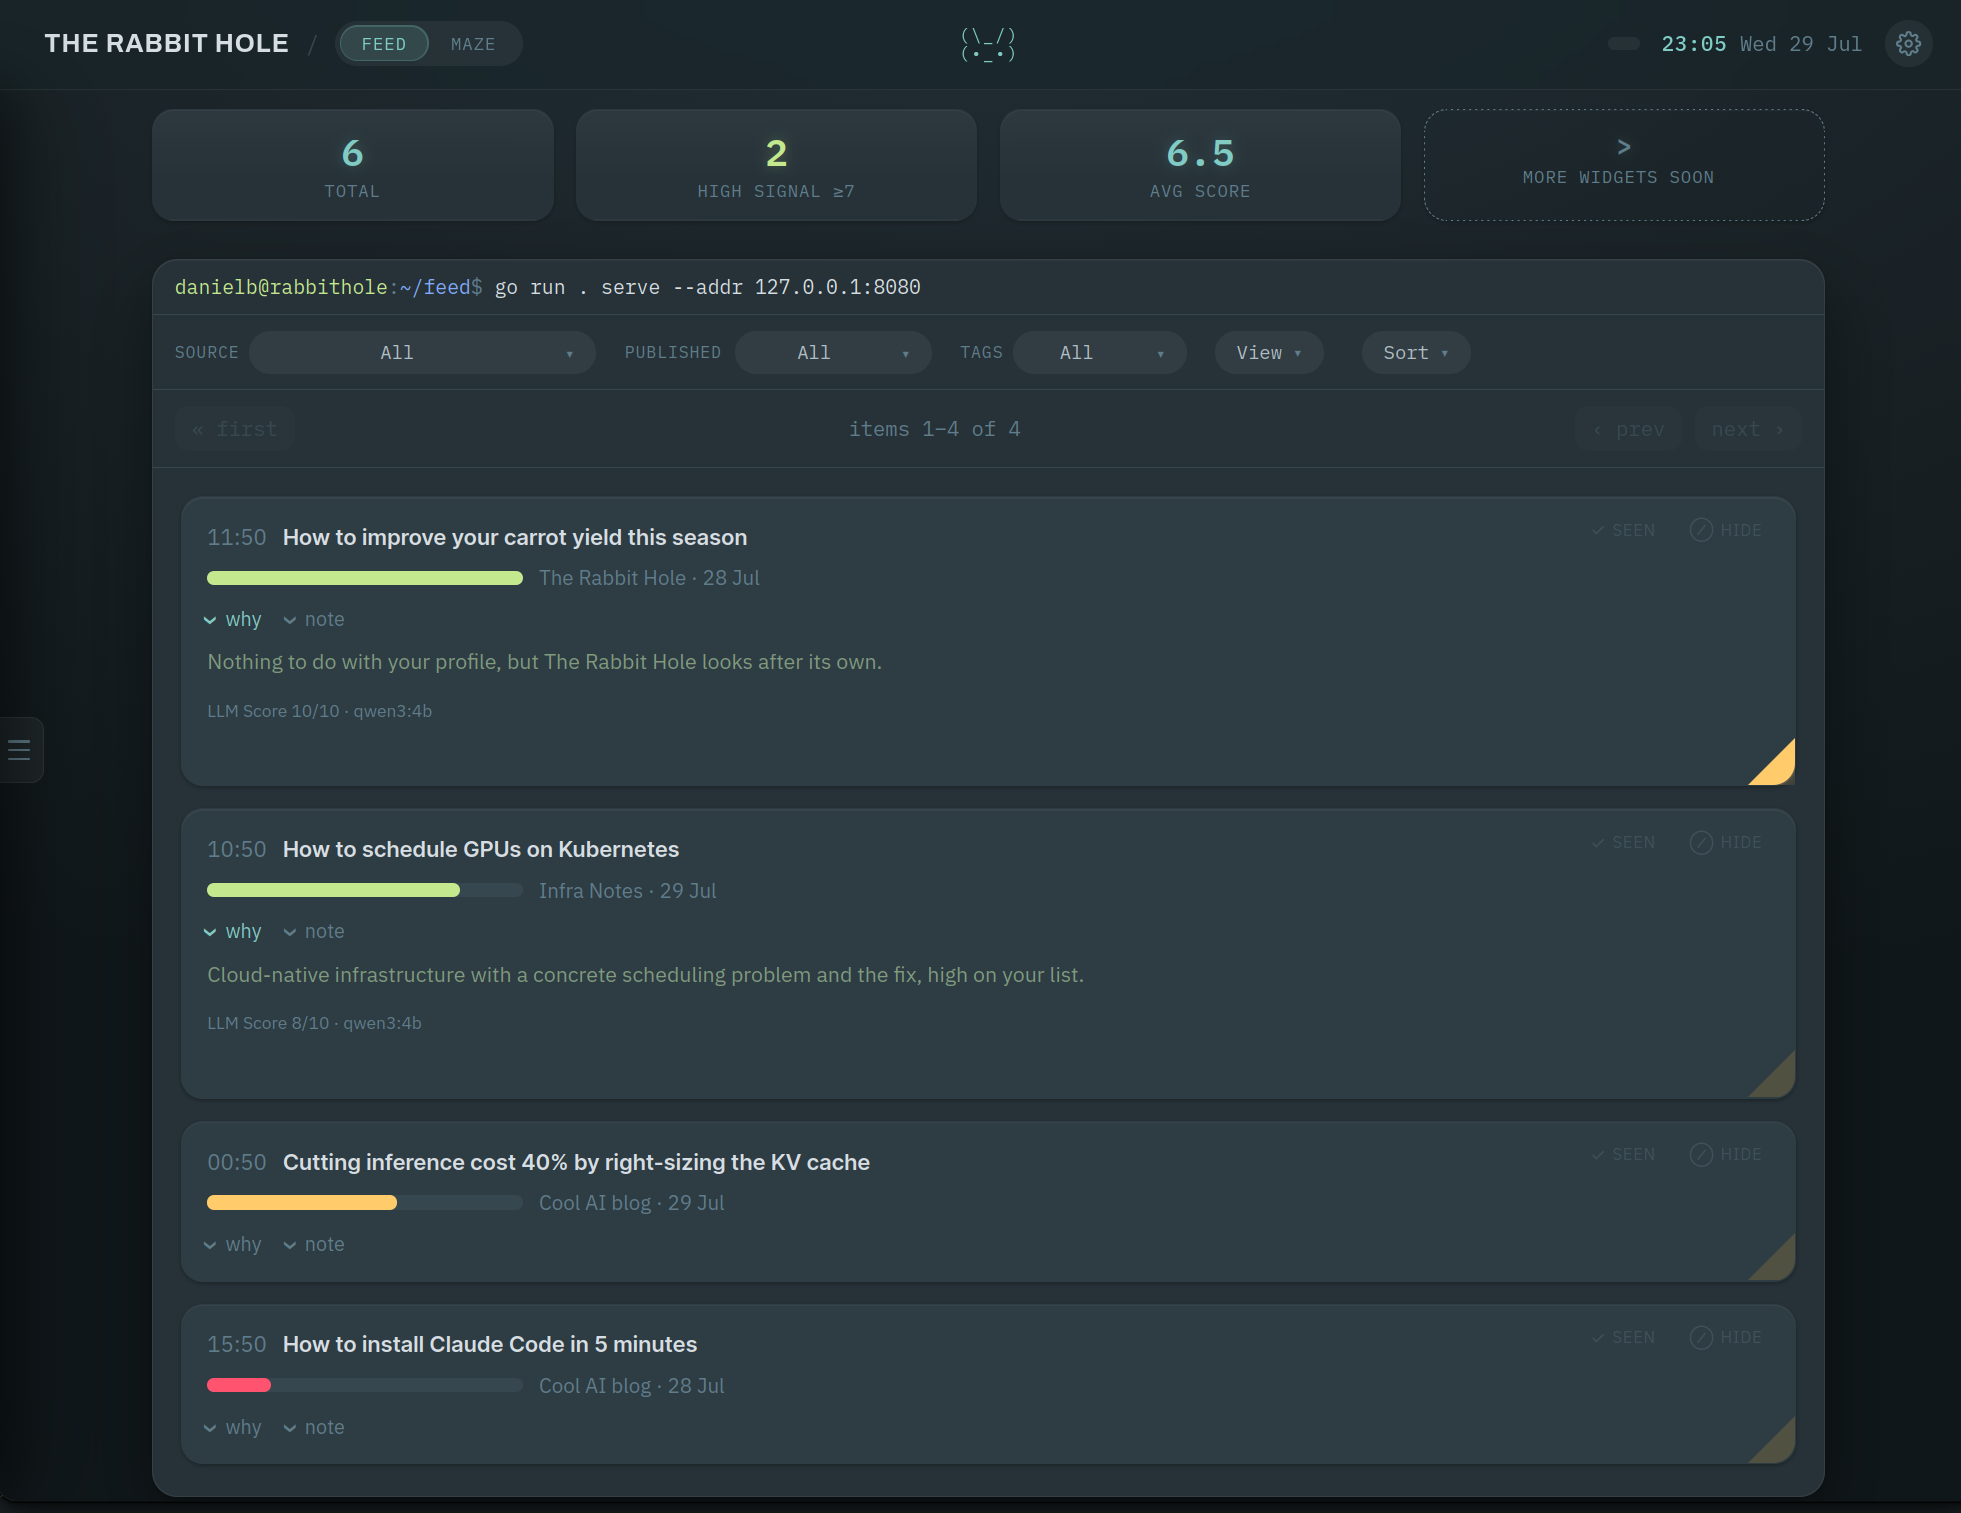
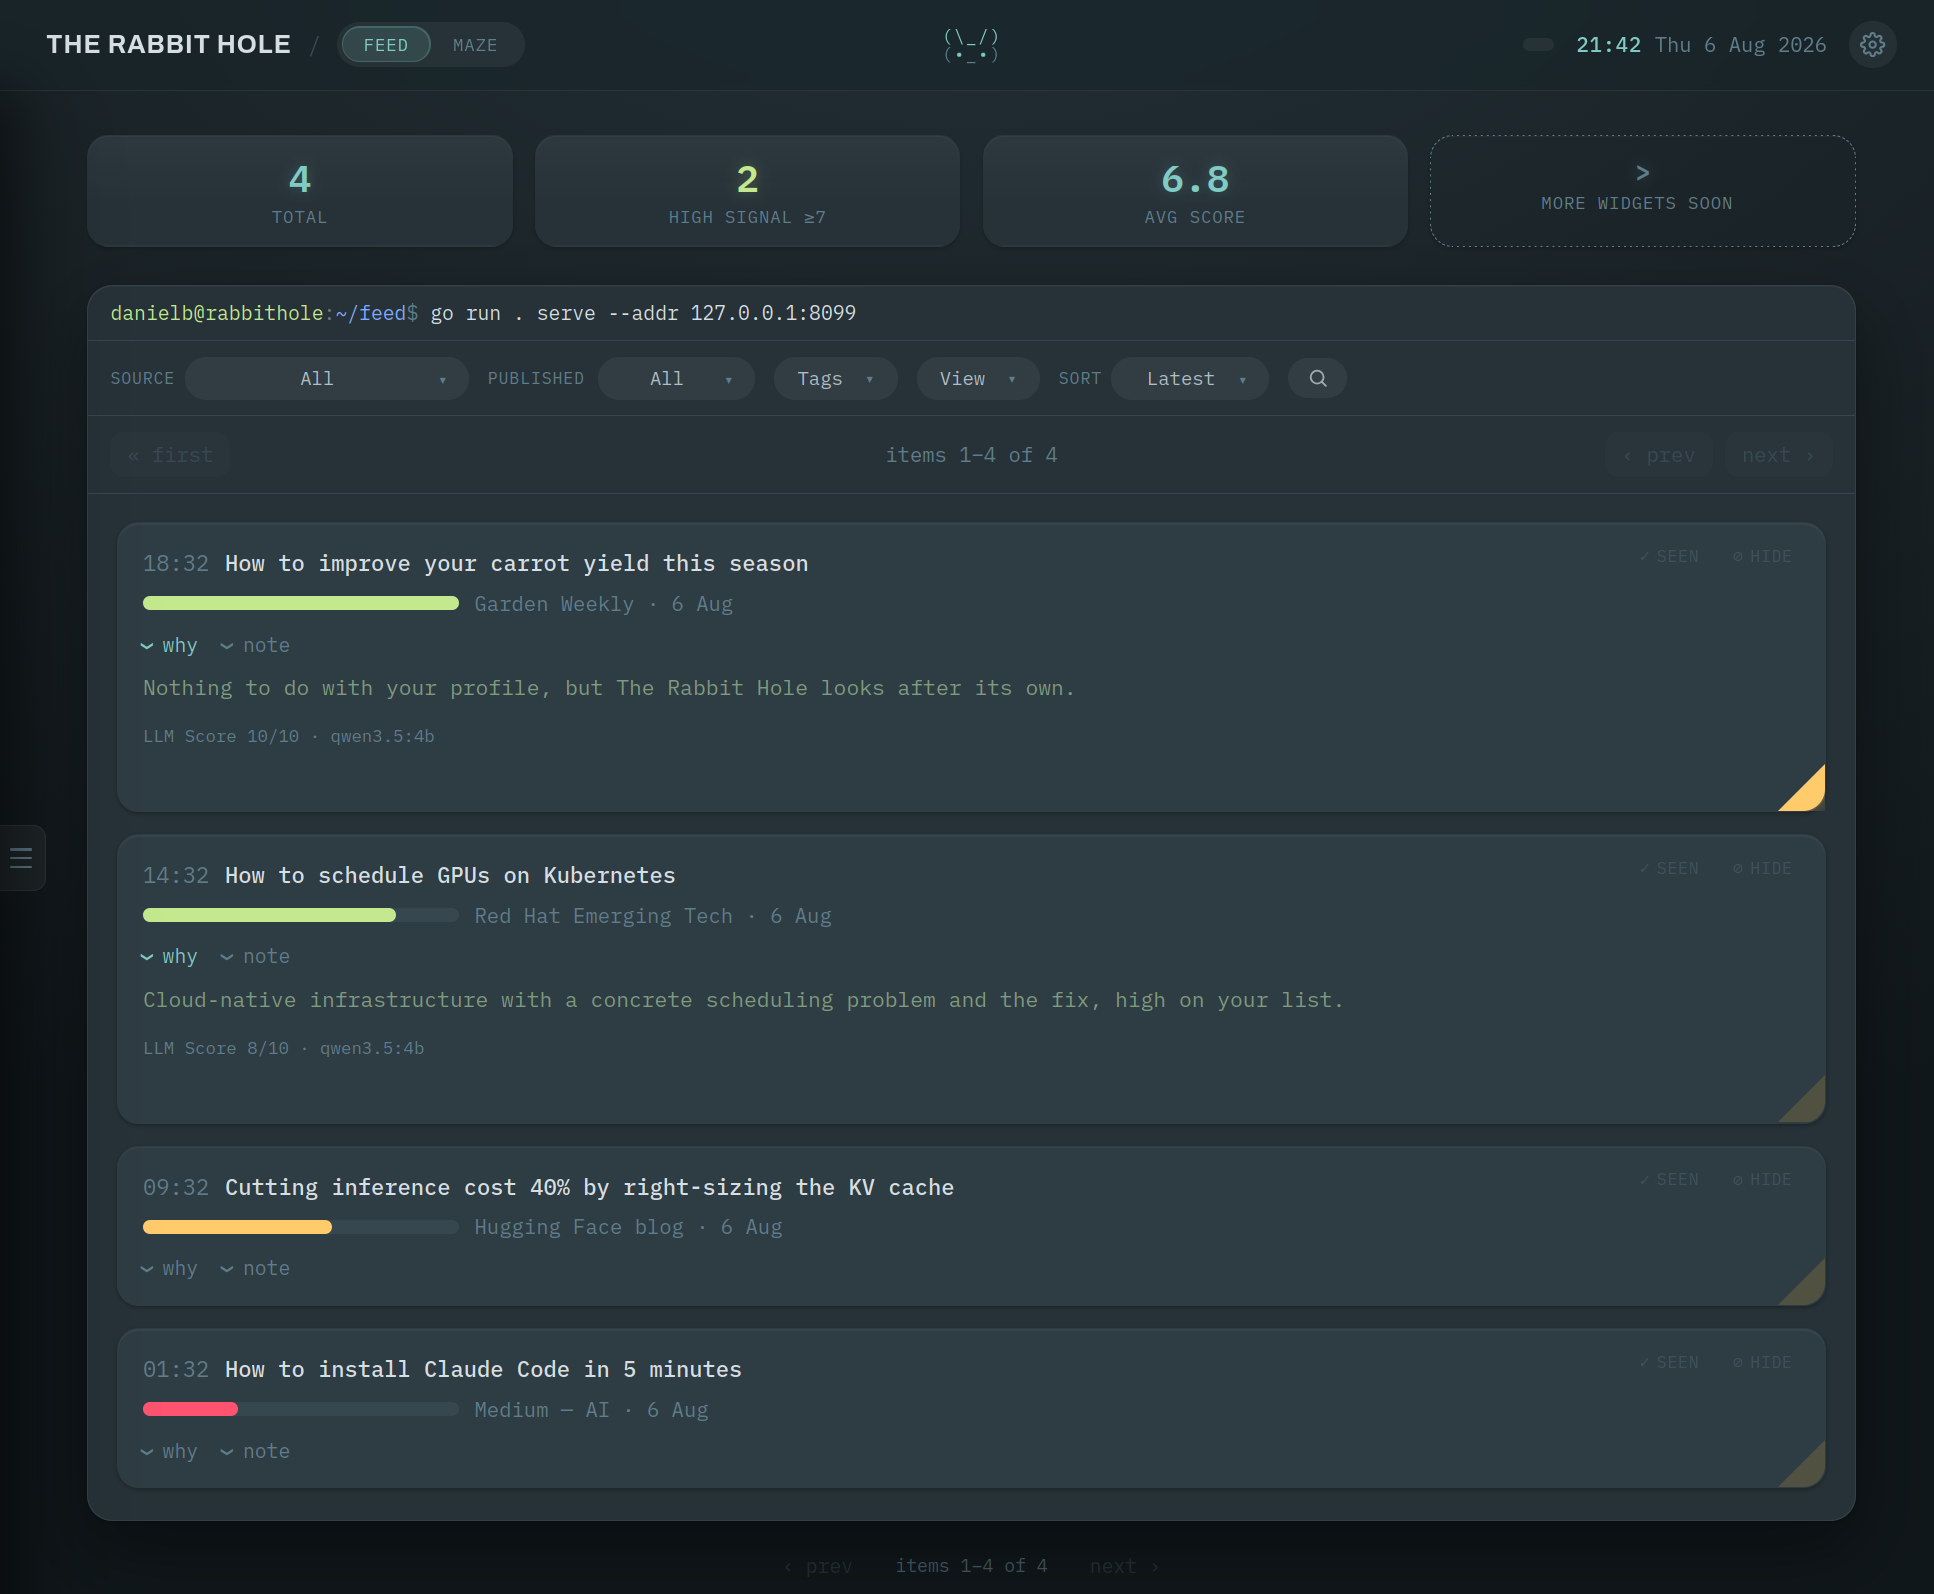
docs(architecture): add the scoring flow, with diagrams
Says in plain terms what actually reaches the model and what comes back,
which is the question a newcomer asks first and the docs never answered.

- new Scoring flow section: what gets sent (source, title and the feed's
  own summary, capped at 1500 chars, never the article page), how it's
  batched and sent, what comes back, and a table mapping each step to the
  knobs that control it
- the two flowcharts are mermaid, matching store.md; the overview one now
  shows the system (what triggers a run, what reads the store) rather than
  repeating the scoring steps below it
- roadmap: crawling article pages, and following blogs with no feed at all
- refreshed the feed screenshot
- the feed pager's item count is centred on the pane rather than wherever
  space-between left it between two uneven button groups
- two golangci-lint failures from the filter-bar work (a long line, a
  De Morgan simplification)

diff --git a/internal/web/static/style.css b/internal/web/static/style.css
@@ -596,12 +596,18 @@ body.nav-open .topbar__nav{font-size:1.22rem;}
    view that filtered itself out, not a feed with nothing in it. */
 .pane__none{padding:14px 4px 10px;color:var(--text-dim);font-size:1.25rem;font-style:italic;}
 
+/* Three tracks with equal outer columns, not space-between: "« first" on the
+   left is far narrower than prev+next on the right, so spacing them apart put
+   the count wherever the wider group left it rather than on the pane's centre
+   line. The outer columns share what's left equally, so the count is centred
+   whatever the buttons do. */
 .pane__nav{
-  display:flex;align-items:center;justify-content:space-between;
+  display:grid;grid-template-columns:1fr auto 1fr;align-items:center;
   padding:10px 14px;border-bottom:1px solid var(--line);
   font-size:1.3rem;color:var(--text-dim);
 }
-.pane__nav .nav-right{display:flex;gap:8px;}
+.pane__nav > .nav-btn{justify-self:start;}
+.pane__nav .nav-right{display:flex;gap:8px;justify-self:end;}
 .nav-btn{
   background:var(--fill);border:1px solid transparent;color:var(--text-dim);
   font-family:inherit;font-size:1.3rem;padding:5px 10px;border-radius:9px;cursor:pointer;

diff --git a/internal/store/sqlite_test.go b/internal/store/sqlite_test.go
@@ -550,8 +550,14 @@ func TestListSearch(t *testing.T) {
 	ctx := context.Background()
 
 	items := []feeds.Item{
-		{ID: "a", Source: "Red Hat Emerging Tech", Title: "Kubernetes at the edge", Link: "https://x/a", Tags: []string{"Infra"}},
-		{ID: "b", Source: "Hugging Face blog", Title: "Fine-tuning on one GPU", Link: "https://x/b", Tags: []string{"AI", "Research"}},
+		{
+			ID: "a", Source: "Red Hat Emerging Tech", Link: "https://x/a",
+			Title: "Kubernetes at the edge", Tags: []string{"Infra"},
+		},
+		{
+			ID: "b", Source: "Hugging Face blog", Link: "https://x/b",
+			Title: "Fine-tuning on one GPU", Tags: []string{"AI", "Research"},
+		},
 		{ID: "c", Source: "Medium — AI", Title: "100% uptime, honestly", Link: "https://x/c"},
 	}
 	if err := db.Record(ctx, items, nil, time.Now()); err != nil {

diff --git a/internal/web/web.go b/internal/web/web.go
@@ -687,7 +687,9 @@ func wornView(unread, seen, hidden, bookmarked bool) pickState {
 		}
 	}
 	st := worn(picked, "none")
-	st.On = !(unread && !seen && !hidden && !bookmarked)
+	// Anything other than unread-only is a narrowing; unread-only is where a
+	// bare load lands, so it wears its name with the dot off.
+	st.On = !unread || seen || hidden || bookmarked
 	return st
 }
 

diff --git a/docs/architecture.md b/docs/architecture.md
@@ -2,15 +2,16 @@
 
 ## How it works
 
-```
-feeds (RSS/Atom) ──▶ fetch + normalize ──▶ drop seen/old ──▶ LLM scores each item
-                                                                      │
-                             select top-N over threshold ◀────────────┘
-                                         │
-                    ┌────────────────────┴────────────────────┐
-                    ▼                                         ▼
-              SQLite store                            markdown digest
-      (web UI, JSON API, items CLI)                (ingest --markdown)
+```mermaid
+flowchart LR
+    F[feeds<br/>RSS/Atom] --> RUN
+    CLI["ingest<br/>(CLI)"] --> RUN
+    WEB["serve<br/>(ingest button)"] --> RUN
+    RUN[one run:<br/>fetch, score, record] --> DB[(SQLite store)]
+    RUN -. "--markdown" .-> MD[markdown digest]
+    DB --> UI[web UI]
+    DB --> API[JSON API]
+    DB --> ITEMS[items CLI]
 ```
 
 `ingest` and `serve` share the same cycle and store: `ingest` runs it once from the CLI and
@@ -18,6 +19,50 @@ can write the result as a markdown digest, while `serve` exposes the store over 
 trigger the same cycle in the background (see [docs/api.md](api.md)). State (seen items,
 scores, digest history, user status/notes) lives in a local SQLite file, so re-runs only
 score genuinely new items.
+
+## Scoring flow
+
+```mermaid
+flowchart TD
+    A[RSS feeds] --> B[fetch each feed]
+    B --> C{new, and inside<br/>the window?}
+    C -- no --> D[skip]
+    C -- yes --> E[title + source + summary<br/>summary capped at 1500 chars]
+    E --> F[group into batches<br/>batch_size per request]
+    F --> G[send with your profile<br/>max_parallel requests in flight]
+    G --> H[score 0-10 + a reason,<br/>as JSON of a fixed shape]
+    H --> I[(store: score, reason, model)]
+```
+
+**What gets sent.** Three things per article: the source name, the title, and the summary the
+feed itself published. Not the article. Nothing fetches the page, so a score is a judgement on
+what the feed chose to say about a piece. The summary is capped at 1,500 characters, which
+most feeds never reach (a typical `<description>` is a few hundred); the cap is there for the
+occasional feed that inlines a whole post.
+
+**How it's grouped.** Articles are gathered into batches of `batch_size` and each batch is one
+request, with `max_parallel` requests in flight. Both default to 1: a small local model reads
+one article better than five, and Ollama queues concurrent requests anyway. Raise them against
+a bigger model or an endpoint that genuinely serves in parallel, such as vLLM. Your profile
+goes with every request, since the question is always "worth reading for this reader".
+
+**What comes back.** A score from 0 to 10 and a sentence or two of reasoning per article, as
+JSON in a fixed shape that the inference server enforces while the model writes rather than
+asking it to comply. Score, reason and the model's name are saved against the article; one
+that fails to score stays unscored and is retried next run, so a bad reply costs a run rather
+than the article.
+
+Each step has a knob, all of them in [configuration.md](configuration.md):
+
+| Step | Knobs |
+|---|---|
+| What's eligible | `ingest.since`, a feed's own `since` and `max_items` |
+| How much text | the 1,500-character cap (fixed), `model_tuning.num_ctx` for how much the model actually reads |
+| How it's split | `inference.batch_size`, `inference.max_parallel` |
+| How much reply | `model_tuning.tokens_per_item`, `tokens_overhead`, `reason_max_chars`, and `tokens_thinking` when `think` is on |
+
+The limit of all this is the first step: a feed that publishes a two-line teaser gets scored on
+a two-line teaser, and a site with no feed can't be read at all. Both are on the roadmap below.
 
 ## Layout
 
@@ -45,8 +90,11 @@ internal/logger       zerolog setup for --debug/--trace
 
 - **Adaptive ranking** — feed `status`/`user_score`/`user_note` history (recorded via
   `items` or the API) back into the scoring prompt as liked/disliked examples.
-- **Full-text crawl** — consider fetch article bodies for richer scoring beyond title+summary.
-- **Feegs page text search** — FTS5 over the item text; the SQLite driver already includes it.
+- **Full-text crawl** — fetch the article page and score the piece itself, rather than the
+  summary a feed chose to publish about it.
+- **Pages without a feed** — follow a plain blog that publishes no RSS or Atom at all, reading
+  the posts off the page itself. Everything after the fetch already works on a title, a source
+  and some text, so the fetch is the only step that assumes a feed exists.
 - **Scheduling & delivery** — systemd timer or cron to run ingest unattended, plus email,
   push or an output feed so the digest reaches you instead of waiting to be opened.
 - **Postgres** — one store reachable from more than one of your machines, instead of each
